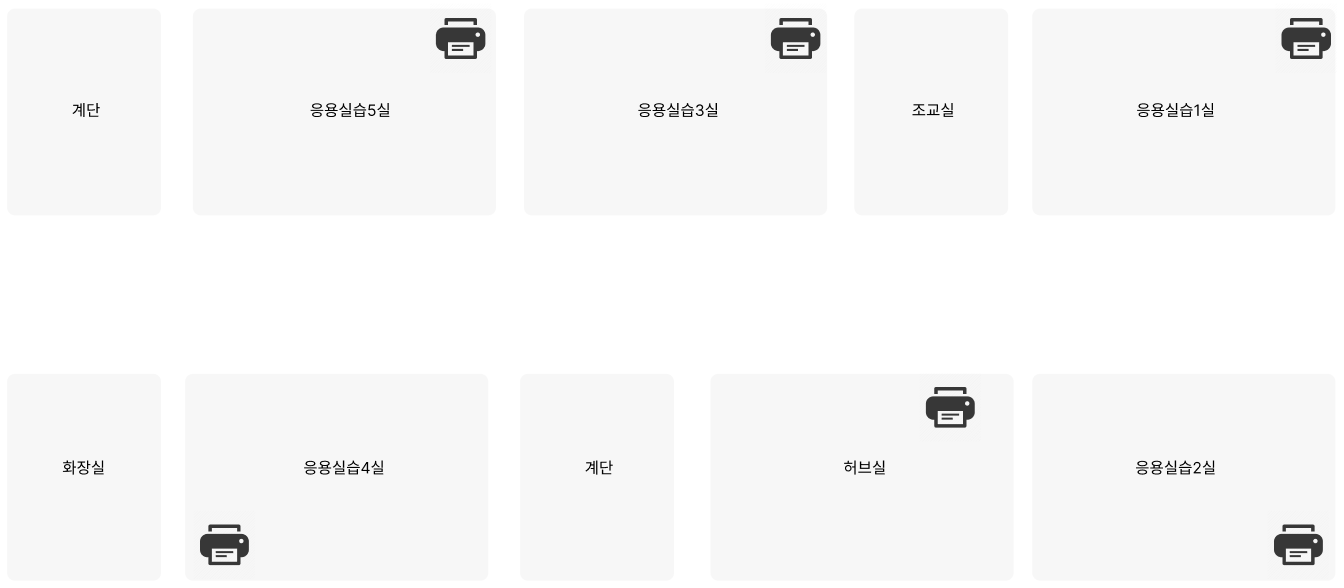
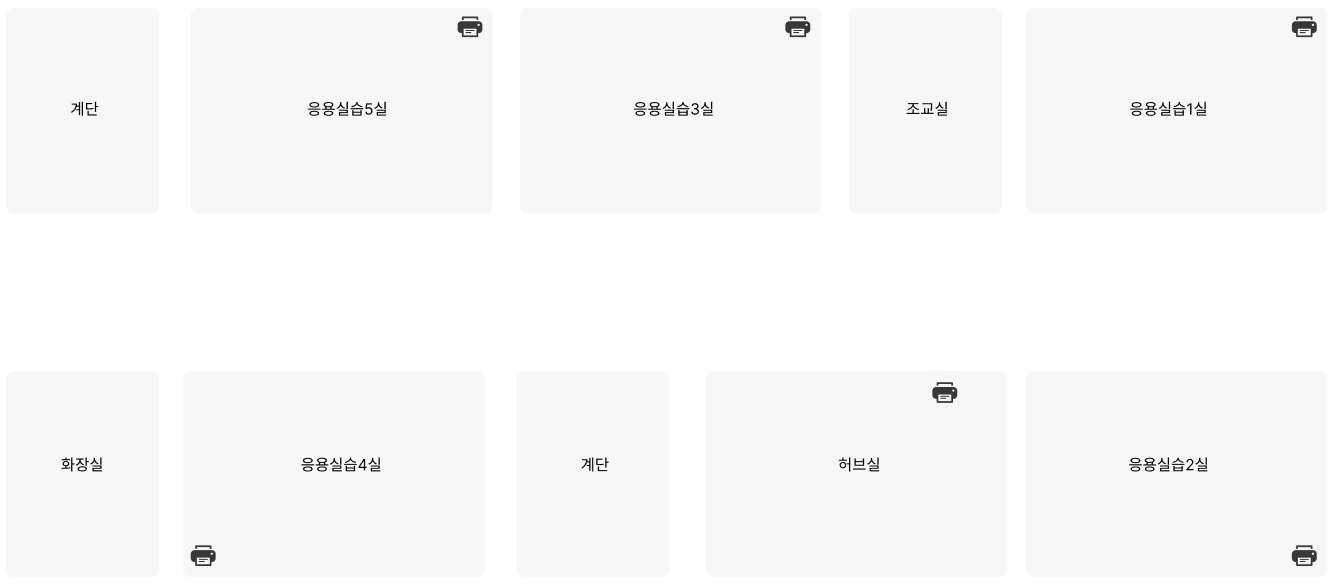
학교 프린터 지도 띄우기

diff --git a/src/components/LibraryMap.js b/src/components/LibraryMap.js
@@ -1,24 +1,16 @@
 import React, { useState } from 'react';
 import '../css/Print.css';
 
+//img
+import LibraryPrint from '../img/library.png';
+
 function LibraryMap() {
 
   return (
     <div>
-        <div className='desk_long'></div>
-
-        <div className='desk_top'></div>
-        <div className='sofa'></div>
-
-        <div className='desk_center4'></div>
-        <div className='desk_center4'></div>
-        <div className='desk_center4'></div>
-        <div className='desk_center4'></div>
-
-        <div className='desk_middle'></div>
-        <div className='desk_middle'></div>
-
-        <div className='desk_searching'></div>
+      <div className="image-container">
+      <img src={LibraryPrint} className="responsive-image" alt="Lab" />
+      </div>
     </div>
   );
 }

diff --git a/src/components/ImaginationCafeMap.js b/src/components/ImaginationCafeMap.js
@@ -1,21 +1,16 @@
 import React, { useState } from 'react';
 import '../css/Print.css';
 
+//img
+import ImaginationCafePrint from '../img/imaginationcafe.png';
+
 function ImaginationCafeMap() {
 
   return (
     <div>
-        <div className='conference_room'></div>
-        <div className='conference_room'></div>
-
-        <div className='desk_top'></div>
-
-        <div className='desk_center4'></div>
-        <div className='desk_center4'></div>
-        <div className='desk_center4'></div>
-        <div className='desk_center4'></div>
-
-        <div className='desk_long'></div>
+      <div className="image-container">
+      <img src={ImaginationCafePrint} className="responsive-image" alt="Lab" />
+      </div>
     </div>
   );
 }

diff --git a/src/components/LabMap.js b/src/components/LabMap.js
@@ -1,15 +1,13 @@
-import React, { useState } from 'react';
+import React from 'react';
 import '../css/Print.css';
 
 //img
-import Lab from '../img/lab.png';
+import LabPrint from '../img/lab.png';
 
 function PrintLab() {
-
   return (
-    
-    <div>
-        <img src={Lab} />
+    <div className="image-container">
+      <img src={LabPrint} className="responsive-image" alt="Lab" />
     </div>
   );
 }

diff --git a/src/css/Print.css b/src/css/Print.css
@@ -1,3 +1,16 @@
+.image-container {
+    width: 70%;
+    max-width: 100%; /* 원하는 최대 너비 설정 */
+    margin: 0 12%; /* 가운데 정렬을 위해 필요한 스타일 */
+    padding-top: 3pc;
+  }
+  
+.responsive-image {
+    width: 100%;
+    height: auto;
+}
+  
+
 .stairs {
     position: absolute;
     width: 198px;
